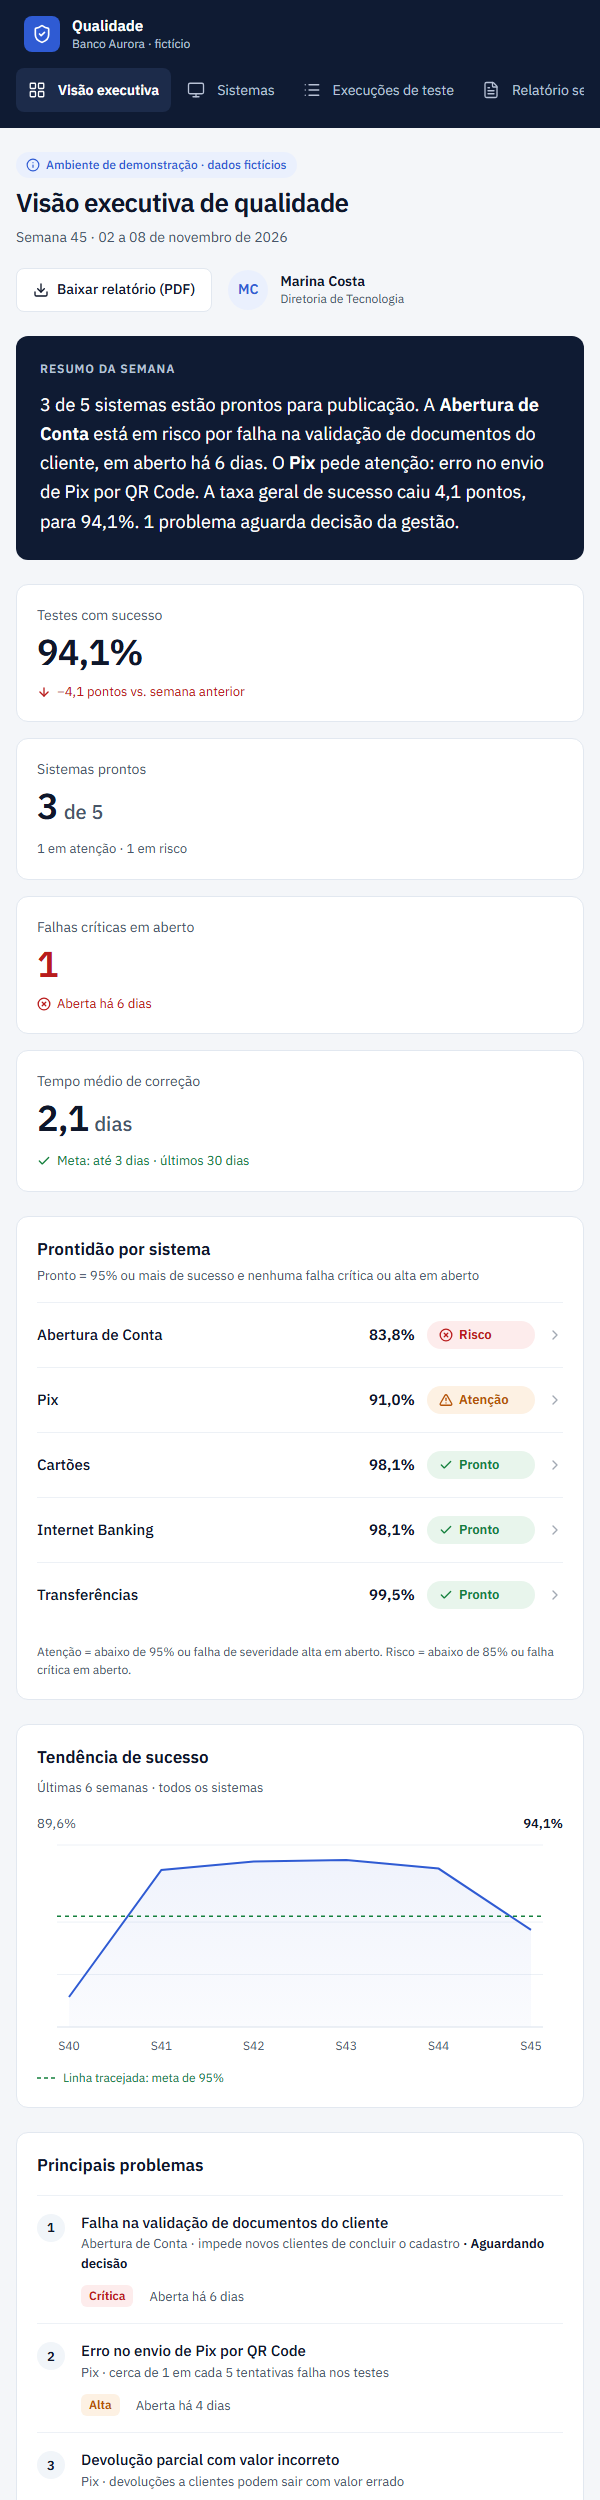
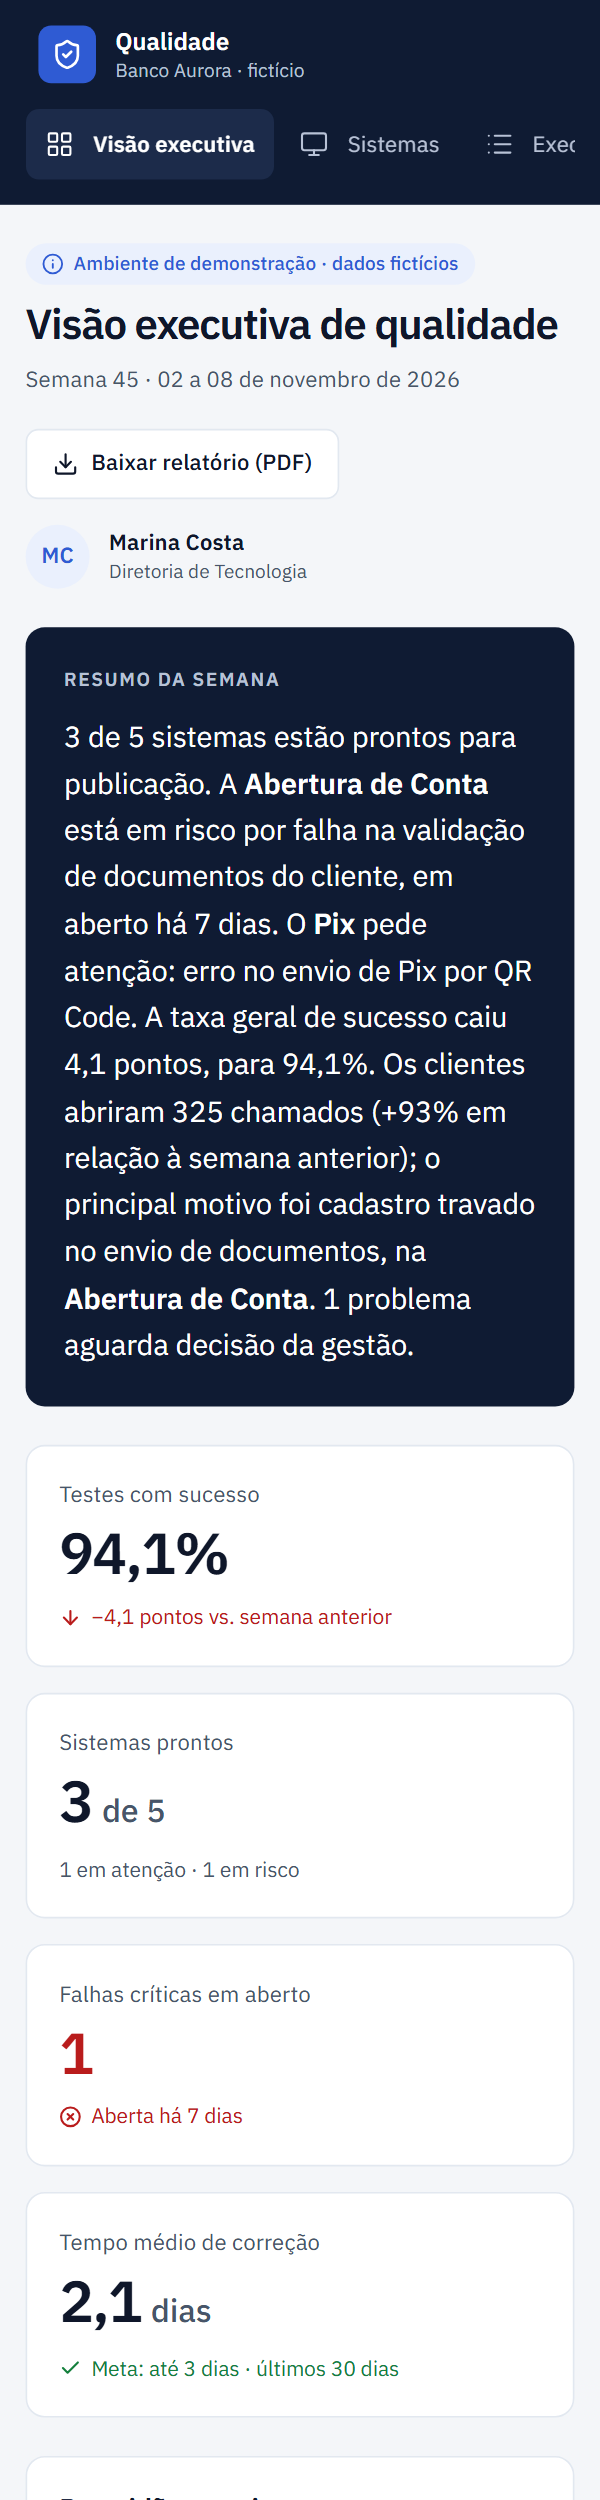
docs: screenshots do README com os chamados de clientes

diff --git a/README.md b/README.md
@@ -42,7 +42,7 @@ Um painel em três níveis de detalhe, alimentado **automaticamente** por uma su
     <td><img src="docs/imagens/visao-tecnica.png" alt="Visão técnica: execuções com mensagem técnica e tradução" /></td>
   </tr>
   <tr>
-    <td align="center"><b>Visão do gerente</b>: do problema à funcionalidade</td>
+    <td align="center"><b>Visão do gerente</b>: do defeito aos chamados de clientes</td>
     <td align="center"><b>Visão técnica</b>: erro original → linguagem de negócio</td>
   </tr>
   <tr>
@@ -50,7 +50,7 @@ Um painel em três níveis de detalhe, alimentado **automaticamente** por uma su
     <td><img src="docs/imagens/celular.png" alt="Visão executiva no celular" width="260" /></td>
   </tr>
   <tr>
-    <td align="center"><b>Relatório semanal</b>: uma folha, pronto para PDF</td>
+    <td align="center"><b>Relatório semanal</b>: testes e chamados em uma folha, pronto para PDF</td>
     <td align="center"><b>Celular</b>: a visão do diretor funciona em qualquer tela</td>
   </tr>
 </table>
